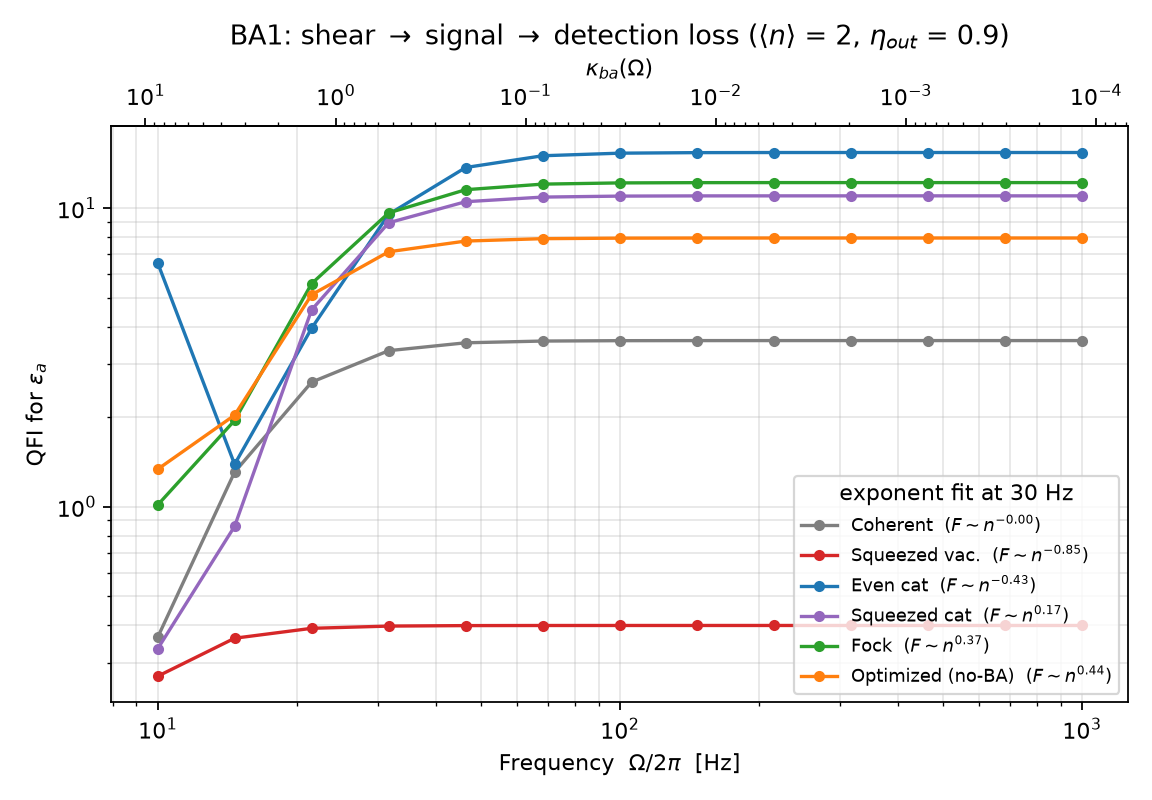
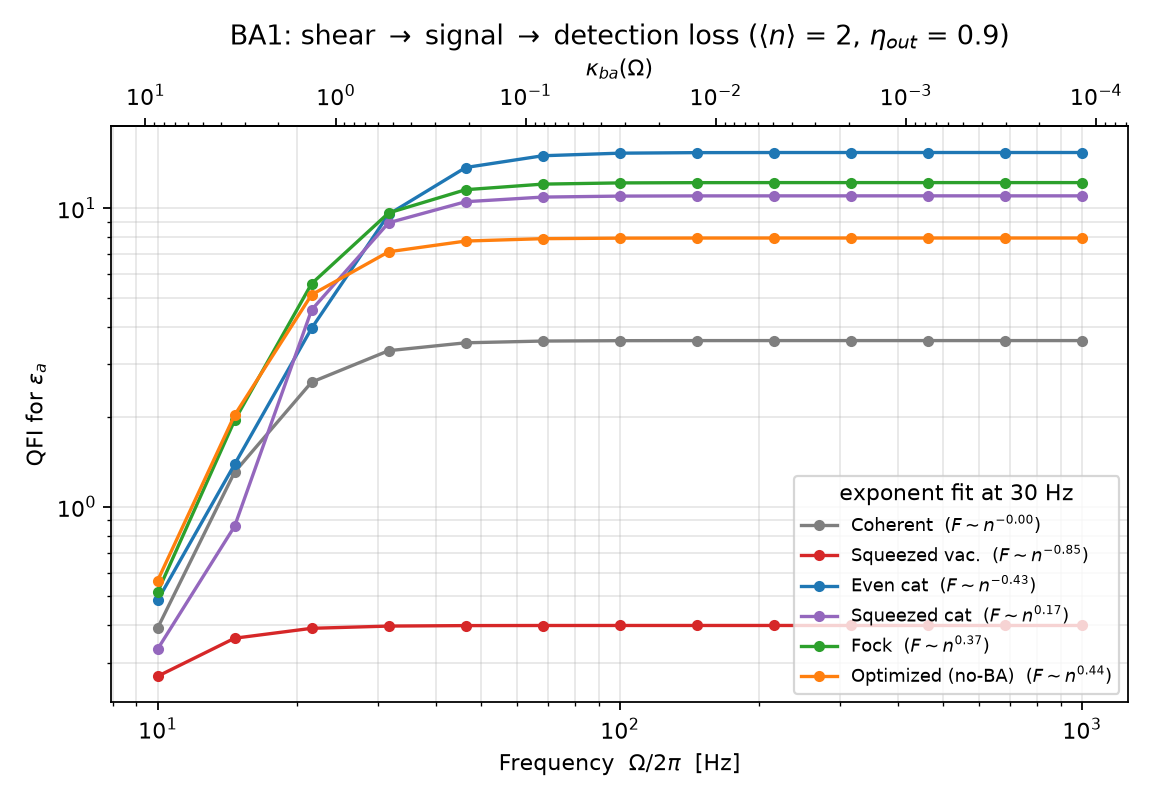
Final BA1 sweep results (N_max=800) with summary and Gaussian validation
Claude-Session: https://claude.ai/code/session_01JXQRLdXHhSAuVvDpQdaiAD

Changed region(s): [[0.125, 0.5, 0.2188, 0.8125], [0.1562, 0.4062, 0.1875, 0.5], [0.125, 0.3125, 0.1562, 0.4062]]

diff --git a/2026-09-07/quantum_sensing/studies/results/BA1_RESULTS.md b/2026-09-07/quantum_sensing/studies/results/BA1_RESULTS.md
@@ -1,0 +1,47 @@
+# BA1 ordering study: radiation pressure first, then displacement sensing
+
+Channel: `shear(kappa_ba(Omega)) -> signal(epsilon_a) -> detection loss (eta_out = 0.9)`
+with the O4-LIGO-calibrated `kappa_ba(Omega) = rp_kappa(Omega)`; fixed `<n> = 2`
+for every probe. Produced by `sweep_ba1_frequency.py` (N_max = 800).
+
+## QFI vs frequency (10 Hz - 1 kHz)
+
+- Above ~100 Hz (kappa << 1) every state sits at its loss-degraded plateau
+  (the shear is negligible): cat 15.37 > Fock 12.18 > squeezed cat 11.00 >
+  optimized(no-BA) 7.94 > coherent 3.60 (= eta * 4/(1+(1-eta)Var...) SQL-like)
+  >> squeezed vacuum 0.40.
+- Squeezed vacuum is squeezed in x — the epsilon_a generator — so its QFI
+  (8 Var(x), degraded by loss) is *small* at every frequency; all its photons
+  are spent anti-squeezing the quadrature that doesn't help.
+- Below ~50 Hz the growing shear (kappa ~ 1 at 30 Hz, ~9.5 at 10 Hz) mixes
+  the anti-squeezed/amplified quadrature into the readout loss and all states
+  collapse toward a common back-action-limited floor (~0.3-0.6 at 10 Hz).
+- The state ranking is preserved down to ~20 Hz; at 10 Hz the differences
+  are largely erased.
+
+## Validation
+
+Coherent and squeezed-vacuum rows agree with the exact Gaussian
+covariance-matrix ground truth (`gaussian_qfi_rp`, `signal_order="after"`)
+to <= 0.2% everywhere, including the four 10 Hz points the convergence
+harness flags as unconverged (the strict output-tail check fails at
+kappa = 9.5 with N_max = 800; the QFI values themselves are accurate:
+Fock 0.3916 vs exact 0.392427 for the coherent probe).
+
+## <n> scaling at 30 Hz (kappa = 1.05), QFI ~ n^s
+
+| state             | s      | note                                        |
+|-------------------|--------|---------------------------------------------|
+| coherent          | 0.000  | QFI independent of n (displacement adds no Var(x)) |
+| squeezed vacuum   | -0.847 | more squeezing shrinks Var(x) further       |
+| even cat          | -0.432 | larger alpha -> more BA-amplified x-spread lost |
+| squeezed cat      | +0.166 | mild growth, saturating by n = 10           |
+| Fock              | +0.375 | best absolute QFI at n = 10 (16.4)          |
+| optimized (no-BA) | +0.442 | steepest fit, but non-monotonic (opt. states were not optimized for this channel) |
+
+No state approaches Heisenberg (s = 2) — the 10% detection loss after the
+shear bounds the useful n-scaling, and states optimized without back-action
+do not transfer their advantage to the BA1 channel.
+
+Files: `ba1_frequency_sweep.csv`, `ba1_n_scaling.csv`,
+`ba1_qfi_vs_frequency.png`, `ba1_run.log`.
